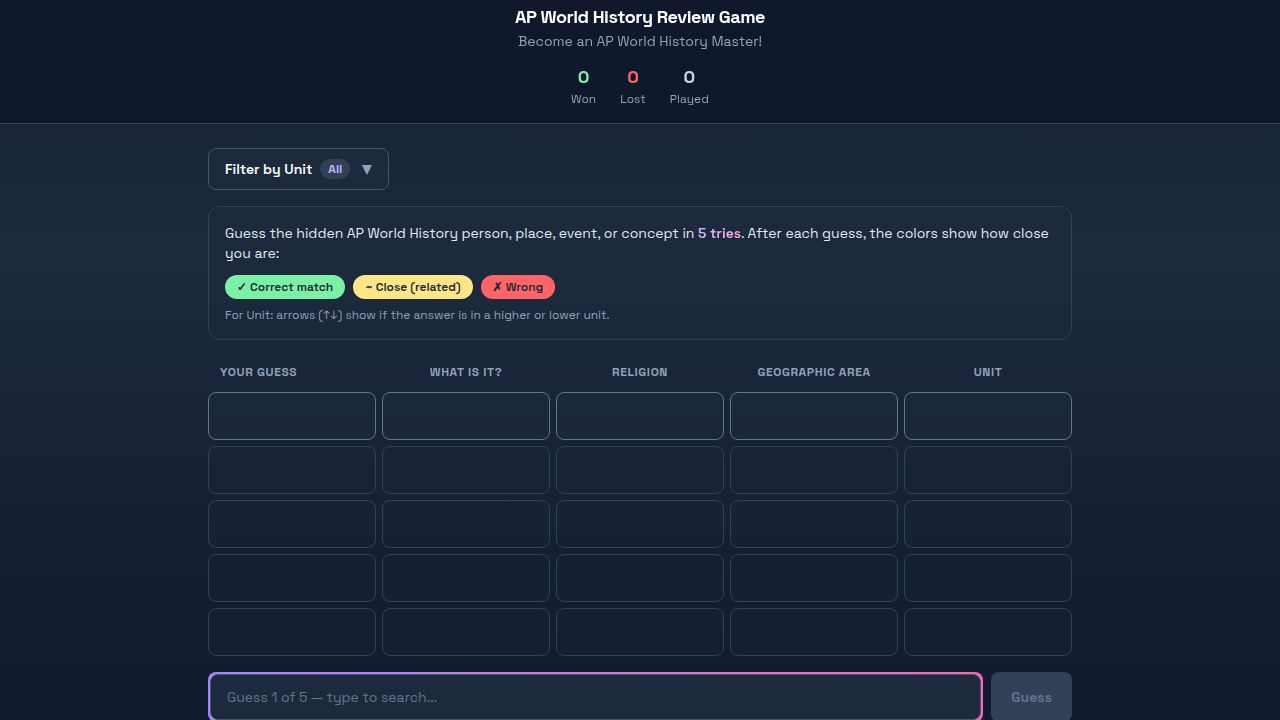
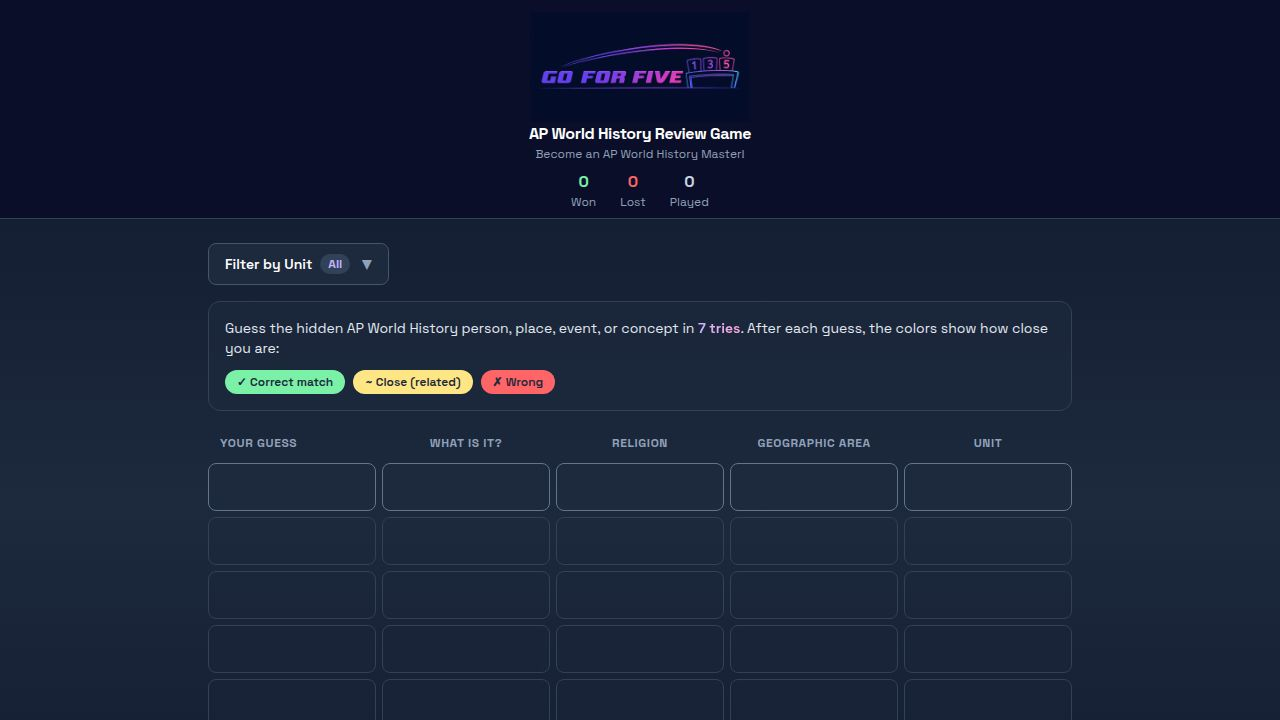
Adapt game for mobile viewing with condensed display and abbreviations
Implement responsive design changes to Home.tsx, including abbreviated text, adjusted grid layouts, and reduced padding/margins to optimize the game's display on smaller screens.

Replit-Commit-Author: Agent
Replit-Commit-Session-Id: 97e5d649-f9a4-4fca-bbb0-98f8a8b0bbf9
Replit-Commit-Checkpoint-Type: full_checkpoint
Replit-Commit-Event-Id: bda7f620-52ce-4d4f-89c0-d0da52215aad
Replit-Commit-Screenshot-Url: https://storage.googleapis.com/screenshot-production-us-central1/7962ad79-2db3-42e1-beda-c891ae04e46c/97e5d649-f9a4-4fca-bbb0-98f8a8b0bbf9/75e38U1
Replit-Helium-Checkpoint-Created: true

diff --git a/artifacts/whap-game/src/pages/Home.tsx b/artifacts/whap-game/src/pages/Home.tsx
@@ -22,15 +22,31 @@ const UNIT_SHORT: Record<number, string> = {
   9: "Unit 9 – Globalization",
 };
 
-const MAX_GUESSES = 5;
+const MAX_GUESSES = 7;
 
 const COL_HEADERS = ["What is it?", "Religion", "Geographic Area", "Unit"];
+const COL_HEADERS_SHORT = ["Type", "Faith", "Area", "Unit"];
 const COL_KEYS: (keyof Omit<GuessResult, "name" | "unitDirection">)[] = [
   "whatIsIt",
   "religion",
   "geographicArea",
   "unit",
 ];
+
+const GEO_SHORT: Record<string, string> = {
+  "Central America/Caribbean": "C. Am.",
+  "North America": "N. Am.",
+  "South America": "S. Am.",
+  "Middle East": "M. East",
+};
+const TYPE_SHORT: Record<string, string> = {
+  "Ideological Concept": "Ideology",
+  "Physical Concept": "Concept",
+  "Ruling Powers": "Rulers",
+  "Innovation": "Tech",
+};
+function shortGeo(s: string) { return GEO_SHORT[s] ?? s; }
+function shortType(s: string) { return TYPE_SHORT[s] ?? s; }
 
 function cellColor(result: MatchResult) {
   if (result === "correct")
@@ -56,25 +72,37 @@ function GuessRow({
     religion: string;
     geographicArea: string;
     unit: string;
+    unitNum: number;
   };
   animate: boolean;
 }) {
   const cells: {
     key: keyof Omit<GuessResult, "name" | "unitDirection">;
-    value: string | React.ReactNode;
+    full: string | React.ReactNode;
+    short: string | React.ReactNode;
   }[] = [
-    { key: "whatIsIt", value: entry.whatIsIt },
-    { key: "religion", value: entry.religion },
-    { key: "geographicArea", value: entry.geographicArea },
+    { key: "whatIsIt",      full: entry.whatIsIt,      short: shortType(entry.whatIsIt) },
+    { key: "religion",      full: entry.religion,       short: entry.religion },
+    { key: "geographicArea", full: entry.geographicArea, short: shortGeo(entry.geographicArea) },
     {
-  key: "unit",
-      value: (
+      key: "unit",
+      full: (
         <>
           {entry.unit}
           {result.unit !== "correct" && result.unitDirection && (
             <div className="text-xs font-bold italic">
               {result.unitDirection === "higher" ? "later" : "earlier"}
             </div>
+          )}
+        </>
+      ),
+      short: (
+        <>
+          {`U${entry.unitNum}`}
+          {result.unit !== "correct" && result.unitDirection && (
+            <span className="font-bold ml-0.5">
+              {result.unitDirection === "higher" ? "↑" : "↓"}
+            </span>
           )}
         </>
       ),
@@ -86,11 +114,11 @@ function GuessRow({
       initial={animate ? { opacity: 0, y: 20 } : false}
       animate={{ opacity: 1, y: 0 }}
       transition={{ duration: 0.4 }}
-      className="grid grid-cols-5 gap-1.5 mb-1.5"
+      className="grid grid-cols-[1.7fr_1fr_1fr_1fr_0.85fr] sm:grid-cols-5 gap-1 sm:gap-1.5 mb-1 sm:mb-1.5"
     >
       {/* Name column */}
-      <div className="flex items-center bg-slate-700 border border-slate-600 rounded-lg px-3 py-2.5">
-        <span className="text-white font-extrabold text-sm leading-tight">
+      <div className="flex items-center bg-slate-700 border border-slate-600 rounded-md sm:rounded-lg px-1.5 sm:px-3 py-1.5 sm:py-2.5">
+        <span className="text-white font-extrabold text-[10px] sm:text-sm leading-tight break-words min-w-0">
           {result.name}
         </span>
       </div>
@@ -101,13 +129,14 @@ function GuessRow({
           initial={animate ? { scale: 0.8, opacity: 0 } : false}
           animate={{ scale: 1, opacity: 1 }}
           transition={{ duration: 0.35, delay: 0.1 }}
-          className={`flex flex-col items-center justify-center rounded-lg border px-2 py-2.5 text-center ${cellColor(result[cell.key])}`}
+          className={`flex flex-col items-center justify-center rounded-md sm:rounded-lg border px-0.5 sm:px-2 py-1.5 sm:py-2.5 text-center ${cellColor(result[cell.key])}`}
         >
-          <span className="text-base font-bold">
+          <span className="text-xs sm:text-base font-bold leading-none">
             {cellIcon(result[cell.key])}
           </span>
-          <span className="text-xs font-medium mt-0.5 leading-tight">
-            {cell.value}
+          <span className="text-[9px] sm:text-xs font-medium mt-0.5 leading-tight">
+            <span className="sm:hidden">{cell.short}</span>
+            <span className="hidden sm:inline">{cell.full}</span>
           </span>
         </motion.div>
       ))}
@@ -447,19 +476,22 @@ export default function Home() {
           </div>
         </div>
 
-        {/* Column Headers + Guess Board — scrollable on small screens */}
-        <div className="overflow-x-auto -mx-2 px-2 mb-4">
-          <div className="min-w-[480px]">
-            <div className="grid grid-cols-5 gap-1.5 mb-2 px-0">
-              <div className="text-xs font-bold text-slate-400 uppercase tracking-wider px-3 py-1">
-                Your Guess
+        {/* Column Headers + Guess Board */}
+        <div className="mb-4 sm:overflow-x-auto sm:-mx-2 sm:px-2">
+          <div className="sm:min-w-[480px]">
+            {/* Headers */}
+            <div className="grid grid-cols-[1.7fr_1fr_1fr_1fr_0.85fr] sm:grid-cols-5 gap-1 sm:gap-1.5 mb-1.5 sm:mb-2">
+              <div className="text-[9px] sm:text-xs font-bold text-slate-400 uppercase tracking-wider px-1.5 sm:px-3 py-1">
+                <span className="sm:hidden">Guess</span>
+                <span className="hidden sm:inline">Your Guess</span>
               </div>
-              {COL_HEADERS.map((h) => (
+              {COL_HEADERS.map((h, i) => (
                 <div
                   key={h}
-                  className="text-xs font-bold text-slate-400 uppercase tracking-wider text-center px-1 py-1"
+                  className="text-[9px] sm:text-xs font-bold text-slate-400 uppercase tracking-wider text-center px-0.5 sm:px-1 py-1"
                 >
-                  {h}
+                  <span className="sm:hidden">{COL_HEADERS_SHORT[i]}</span>
+                  <span className="hidden sm:inline">{h}</span>
                 </div>
               ))}
             </div>
@@ -480,15 +512,15 @@ export default function Home() {
               Array.from({ length: remaining }).map((_, i) => (
                 <div
                   key={`empty-${i}`}
-                  className="grid grid-cols-5 gap-1.5 mb-1.5"
+                  className="grid grid-cols-[1.7fr_1fr_1fr_1fr_0.85fr] sm:grid-cols-5 gap-1 sm:gap-1.5 mb-1 sm:mb-1.5"
                 >
                   <div
-                    className={`h-12 rounded-lg border ${i === 0 ? "border-slate-500 bg-slate-800/50" : "border-slate-700 bg-slate-800/20"}`}
+                    className={`h-9 sm:h-12 rounded-md sm:rounded-lg border ${i === 0 ? "border-slate-500 bg-slate-800/50" : "border-slate-700 bg-slate-800/20"}`}
                   />
                   {[0, 1, 2, 3].map((j) => (
                     <div
                       key={j}
-                      className={`h-12 rounded-lg border ${i === 0 ? "border-slate-500 bg-slate-800/50" : "border-slate-700 bg-slate-800/20"}`}
+                      className={`h-9 sm:h-12 rounded-md sm:rounded-lg border ${i === 0 ? "border-slate-500 bg-slate-800/50" : "border-slate-700 bg-slate-800/20"}`}
                     />
                   ))}
                 </div>
